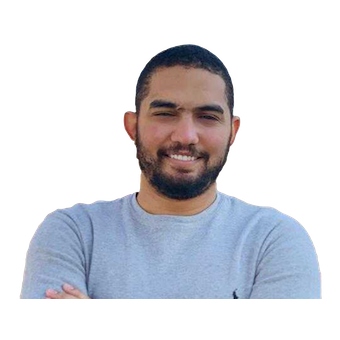
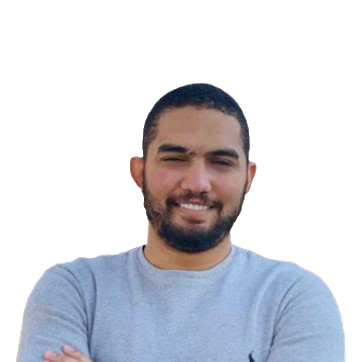
signup and sign in polished

diff --git a/src/Pages/SignUp/index.js b/src/Pages/SignUp/index.js
@@ -63,10 +63,11 @@ function SignUp() {
   return (
     <div className="sign-up-container">
       <div className="content-side">
-        <div className="screen-shot-area">
+        <div className="about-container">
           <div>
-            <h1 id="logo">Chatter</h1>
-            <h1>About Us</h1>
+            <h1 className="logo">
+              <em>Chatter</em>
+            </h1>
             <div className="headshots-area">
               <div className="headshot-holder">
                 <img src={fmPic} id="fm" />
@@ -75,24 +76,30 @@ function SignUp() {
                 <img src={vwPic} id="vw" />
               </div>
             </div>
-            <p>
-              Hi! We're Filipe Marques (portfolio link) and Victor Wang
-              (portfolio link), creators of Chatter. Our goal was to create a
-              lightweight app that anyone could just pick up and use anytime.
-              Find people from all walks of life and give the language you're
-              learning a little practice. Send a quick message and maybe even
-              meet a new friend. We hope you enjoy using Chatter!
-            </p>
           </div>
-          <div>
+          <div className="about-content">
+            <h1>About Us</h1>
+            <p>
+              Hi! We're
+              <a href="https://filipemarques.me/" target="_blank">
+                Filipe Marques
+              </a>
+              and
+              <a href="http://www.victorwang.me/" target="_blank">
+                Victor Wang
+              </a>
+              -- creators of Chatter. Our goal was to create a lightweight app
+              that anyone could just pick up and use anytime. Find people from
+              all walks of life and give the language you're learning a little
+              practice. Send a quick message and maybe even meet a new friend.
+              We hope you enjoy using Chatter!
+            </p>
             <h1>Roadmap</h1>
             <p>
               More features are coming your way. Check out our development board
               to see what we're working on. If you have any suggestions, you can
               find our contact information below.
             </p>
-          </div>
-          <div>
             <h1>Contact</h1>
             <p>
               Got questions or feedback? Send us a message, we'd love to

diff --git a/src/Pages/Login/index.js b/src/Pages/Login/index.js
@@ -4,7 +4,9 @@ import { Link, Route, Routes } from 'react-router-dom';
 import { useAuthState, useAuthDispatch } from '../../Context/context';
 import { login } from '../../Context';
 import SignUp from '../SignUp/index';
-import screenShot from '../../assets/images/screenshot-1.png';
+import screenShot1 from '../../assets/images/screenshot-1.png';
+import screenShot2 from '../../assets/images/screenshot-2.png';
+import screenShot3 from '../../assets/images/screenshot-3.png';
 import userIcon from '../../assets/images/user.png';
 import ghLogo from '../../assets/images/gh-logo.png';
 import fakeUser1 from '../../assets/images/fake-user-1.png';
@@ -37,12 +39,43 @@ function Login(props) {
           <h1 className="logo">
             <em>Chatter</em>
           </h1>
-          <img
-            src={fakeUser1}
-            alt="Chatter user preview"
-            id="screen-shot-user"
-          />
-          <img src={screenShot} alt="Chatter chat preview" id="screen-shot" />
+          <div id="screen-shot-1">
+            <img
+              src={fakeUser3}
+              alt="Chatter user preview"
+              className="screen-shot-user right"
+            />
+            <img
+              src={screenShot3}
+              alt="Chatter chat preview"
+              id="screen-shot"
+            />
+          </div>{' '}
+          <div id="screen-shot-2">
+            <img
+              src={fakeUser1}
+              alt="Chatter user preview"
+              className="screen-shot-user left"
+            />
+            <img
+              src={screenShot1}
+              alt="Chatter chat preview"
+              id="screen-shot-left"
+            />
+          </div>
+          <div id="screen-shot-3">
+            <img
+              src={fakeUser2}
+              alt="Chatter user preview"
+              id="screen-shot-user"
+              className="screen-shot-user right"
+            />
+            <img
+              src={screenShot2}
+              alt="Chatter chat preview"
+              id="screen-shot"
+            />
+          </div>
         </div>
         <footer>
           <div>

diff --git a/src/Pages/SignUp/styles.scss b/src/Pages/SignUp/styles.scss
@@ -1,30 +1,62 @@
+.about-container {
+  width: 100%;
+  margin: 0 auto;
+  padding: 0;
+
+  h1 {
+    font-size: 48px;
+    margin-bottom: 0px;
+  }
+}
+
+.about-content {
+  max-width: 800px;
+  margin: 0 auto;
+  margin-top: 20px;
+  padding: 0px 60px 0px 60px;
+  text-align: center;
+
+  h1 {
+    font-size: 25px;
+    width: 120px;
+    margin: 0 auto;
+    margin-top: 30px;
+  }
+
+  p {
+    line-height: 22px;
+    margin-top: 10px;
+    text-align: justify;
+  }
+
+  a {
+    color: #fec260;
+    text-decoration: none;
+    margin-left: 5px;
+    margin-right: 5px;
+  }
+}
+
 .headshots-area {
   display: flex;
+  justify-content: center;
+  gap: 15px;
+  background: #fec260;
+  margin-top: 24px;
+  height: 120px;
 }
 
 .headshot-holder {
-  background-color: white;
-  border-radius: 100%;
   width: 120px;
   height: 120px;
+  margin-top: -10px;
 }
 
 #fm,
 #vw {
-  width: 100px;
-  // height: 90px;
-  height: fit-content;
-  margin: 0;
-  // border-radius: 20%;
-  // background: white;
-  margin-left: 10px;
-  object-fit: cover;
-}
-
-#fm {
-  width: 106px;
-  // margin-top: 2spx;
-  // margin-left: 5px;
+  width: 130px;
+  // margin: 0;
+  // border-radius: 100%;
 }
 
 .sign-up-container {
@@ -41,7 +73,7 @@
 
 .sign-up-side-top {
   margin: 0 auto;
-  margin-top: 60px;
+  margin-top: 50px;
   width: 90%;
   // text-align: center;
   em {
@@ -56,7 +88,7 @@
   p {
     width: 320px;
     margin: 0 auto;
-    margin-top: 20px;
+    margin-top: 10px;
     // border: 1px solid red;
     text-align: left;
     line-height: 22px;
@@ -70,7 +102,7 @@
 .sign-up-area {
   width: 320px;
   margin: 0 auto;
-  margin-top: 30px;
+  margin-top: 15px;
 
   #login-back {
     display: block;
@@ -102,13 +134,13 @@
     color: white;
   }
   label {
-    margin-bottom: 10px;
+    margin-bottom: 8px;
     display: block;
   }
   input,
   select {
     width: 100%;
-    margin-bottom: 10px;
+    margin-bottom: 8px;
     display: block;
     border-radius: 6px;
     height: 25px;

diff --git a/src/Pages/Login/styles.scss b/src/Pages/Login/styles.scss
@@ -104,6 +104,7 @@
 
 .content-side {
   grid-column: 1;
+  overflow: hidden;
 
   footer {
     position: fixed;
@@ -134,33 +135,70 @@
   }
 }
 
-#screen-shot-user {
-  width: 60px;
-  // padding: 8px;
-  border-radius: 100%;
-  border: 2px solid #ffdd59;
-  position: relative;
-  top: 100px;
-}
-
 .screen-shot-area {
-  width: 40vw;
+  width: 300px;
   max-width: 400px;
   margin: 0 auto;
 
   h1 {
-    margin: 0;
-    margin-top: 40px;
+    // margin-left: -5px;
+    margin-top: 38px;
     font-size: 48px;
+    // margin-left: -20px;
   }
-}
+  .screen-shot-user {
+    width: 50px;
+    height: 50px;
+    border-radius: 100%;
+    border: 2px solid #fec260;
+    // margin: 0 auto;
+    display: block;
+    position: relative;
+    top: 46px;
+  }
 
-#screen-shot {
-  width: 35vw;
-  max-width: 400px;
-  border-radius: 14px;
-  border: 2px solid #2b2039;
-  display: block;
-  margin: 0 auto;
-  margin-top: 60px;
+  .left {
+    left: -15px;
+  }
+
+  .right {
+    left: 88%;
+  }
+
+  #screen-shot-1 {
+    position: relative;
+    left: 28px;
+    top: -54px;
+  }
+
+  #screen-shot-2 {
+    position: relative;
+    left: -41px;
+    top: -177px;
+    z-index: 1;
+  }
+
+  #screen-shot-3 {
+    position: relative;
+    left: 28px;
+    top: -261px;
+  }
+
+  #screen-shot {
+    width: 260px;
+    border-radius: 14px;
+    border: 2px solid #2b2039;
+    display: block;
+    margin: 0 auto;
+    box-shadow: 2px 1px 5px #7d5fff;
+  }
+
+  #screen-shot-left {
+    width: 280px;
+    border-radius: 14px;
+    border: 2px solid #2b2039;
+    display: block;
+    margin: 0 auto;
+    box-shadow: -2px 1px 5px #7d5fff;
+  }
 }

diff --git a/src/index.scss b/src/index.scss
@@ -26,7 +26,7 @@ body {
 }
 
 .logo {
-  width: 138px;
+  width: fit-content;
   display: block;
   margin: 30px auto;
   font-family: 'Croissant One', cursive !important;
